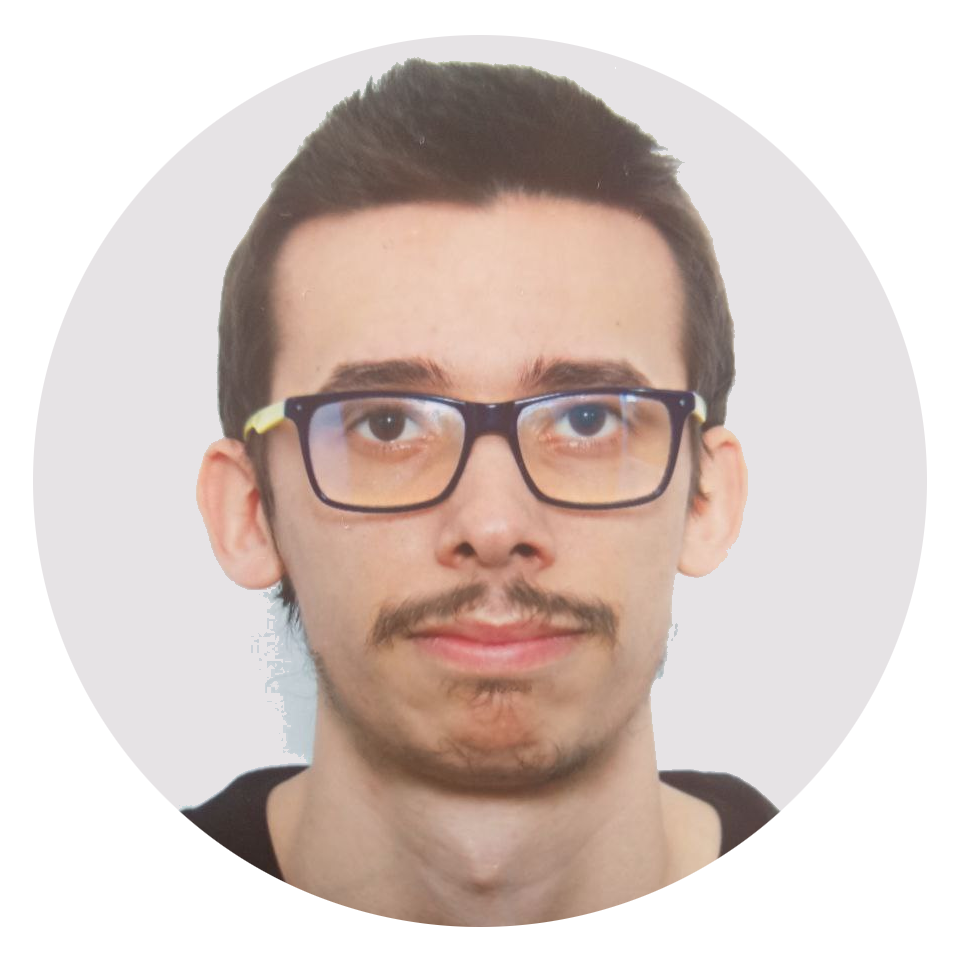
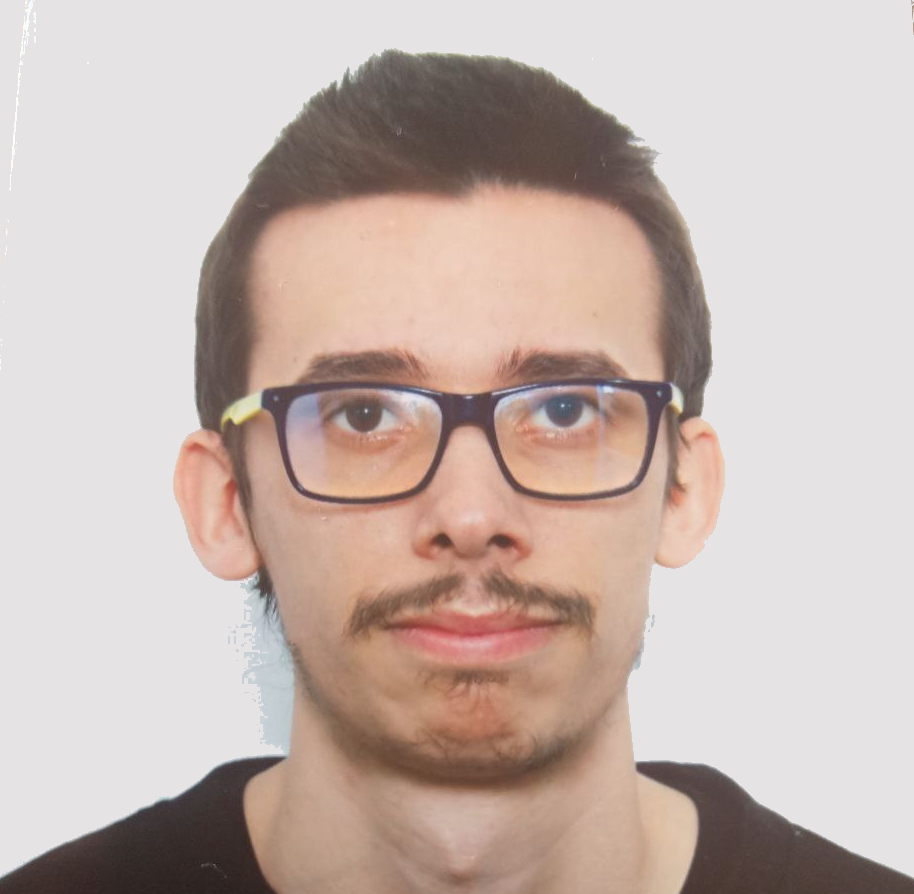
some image and shadow fixes

diff --git a/src/components/Projects.jsx b/src/components/Projects.jsx
@@ -1,5 +1,6 @@
 import initlab from '../images/initlab.png'
 import f1quotes from '../images/f1quotesapi.png'
+import kimiquotes from '../images/kimiquotes.png'
 
 export function Projects(){
     return (
@@ -20,6 +21,7 @@ export function Projects(){
                             
                             <img className="inline-block h-10 w-10" src="https://cdn.jsdelivr.net/gh/devicons/devicon/icons/laravel/laravel-plain-wordmark.svg" />
                             <img className="inline-block h-10 w-10" src="https://cdn.jsdelivr.net/gh/devicons/devicon/icons/vuejs/vuejs-original.svg" />
+                            <img className="inline-block h-10 w-10" src="https://cdn.jsdelivr.net/gh/devicons/devicon/icons/bootstrap/bootstrap-original-wordmark.svg" />
           
                             <a href="https://www.initlab.cat" target="_blank"><button className='button2 float-right'>Demo</button></a>
                         </div>
@@ -44,7 +46,7 @@ export function Projects(){
 
                         
                         <div className="rounded overflow-hidden shadow-lg bg-gray-700">
-                        <img className="w-full" src={initlab} alt=""></img>
+                        <img className="w-full" src={kimiquotes} alt="Kimi Raikkonen Quotes"></img>
                         <div className="px-6 py-4">
                             <div className="font-bold text-xl mb-2 text-white">Kimi Räikkönen Quotes</div>
                             <p className="text-white text-base">
@@ -53,7 +55,7 @@ export function Projects(){
                         </div>
                         <div className="px-6 pt-4 pb-2">
                             <img className="inline-block h-10 w-10" src="https://cdn.jsdelivr.net/gh/devicons/devicon/icons/vuejs/vuejs-original.svg" />
-                            
+                            <a href="https://github.com/stv-beep/Vue-PublicAPI" target="_blank"><button className='button2 float-right'>Código fuente</button></a>
                         </div>
                         </div>
                 </div>

diff --git a/src/components/technologies.js b/src/components/technologies.js
@@ -3,6 +3,14 @@ export const technologies = [
         name: 'js',
         src: 'https://cdn.jsdelivr.net/gh/devicons/devicon/icons/javascript/javascript-original.svg'
     },
+    {
+        name: 'html',
+        src: 'https://cdn.jsdelivr.net/gh/devicons/devicon/icons/html5/html5-original-wordmark.svg'
+    },
+    { 
+        name: 'css',
+        src: 'https://cdn.jsdelivr.net/gh/devicons/devicon/icons/css3/css3-original-wordmark.svg'
+    },
     { 
         name: 'vuejs',
         src: 'https://cdn.jsdelivr.net/gh/devicons/devicon/icons/vuejs/vuejs-original.svg'
@@ -14,10 +22,6 @@ export const technologies = [
     {
         name: 'react',
         src: 'https://cdn.jsdelivr.net/gh/devicons/devicon/icons/react/react-original.svg'
-    },
-    { 
-        name: 'css',
-        src: 'https://cdn.jsdelivr.net/gh/devicons/devicon/icons/css3/css3-original-wordmark.svg'
     },
     { 
         name: 'php',
@@ -65,6 +69,14 @@ export const stack = [
         name: 'js',
         src: 'https://cdn.jsdelivr.net/gh/devicons/devicon/icons/javascript/javascript-original.svg'
     },
+    {
+        name: 'html',
+        src: 'https://cdn.jsdelivr.net/gh/devicons/devicon/icons/html5/html5-original-wordmark.svg'
+    },
+    { 
+        name: 'css',
+        src: 'https://cdn.jsdelivr.net/gh/devicons/devicon/icons/css3/css3-original-wordmark.svg'
+    },
     { 
         name: 'vuejs',
         src: 'https://cdn.jsdelivr.net/gh/devicons/devicon/icons/vuejs/vuejs-original.svg'
@@ -76,10 +88,6 @@ export const stack = [
     {
         name: 'react',
         src: 'https://cdn.jsdelivr.net/gh/devicons/devicon/icons/react/react-original.svg'
-    },
-    { 
-        name: 'css',
-        src: 'https://cdn.jsdelivr.net/gh/devicons/devicon/icons/css3/css3-original-wordmark.svg'
     },
     { 
         name: 'php',

diff --git a/src/components/About.jsx b/src/components/About.jsx
@@ -23,7 +23,7 @@ export function About(){
                                 <div className="box">
                                     <div className="flex-row">
                                         <p className="montserrat text-cyan-50 font-extrabold">ALEIX ALGUERÓ</p>
-                                        <span className="hover:text-red-600 text-cyan-50 font-medium italic">
+                                        <span className="hover:text-red-600 text-cyan-50 font-medium">
                                             Desarrollador Web y Administrador de Sistemas</span>
                                     </div>
                                     <br/>

diff --git a/src/App.css b/src/App.css
@@ -129,8 +129,7 @@ li:hover .nav-links-mobile {
 }
 
 .avatar {
-  border: 10px solid #ddddddc5;
-  
+  border: 5px solid #e8e8e8;
   margin: auto;
   max-height: 300px;
   max-width: 300px;
@@ -157,7 +156,7 @@ li:hover .nav-links-mobile {
 
 .box {
   background: rgb(14 14 14);
-  box-shadow: 0px 0px 20px 9px #ddddddc5;
+  box-shadow: 0px 0px 30px 5px #15151552;
   border-radius: 15px;
   color: #000;
   padding: 40px;
